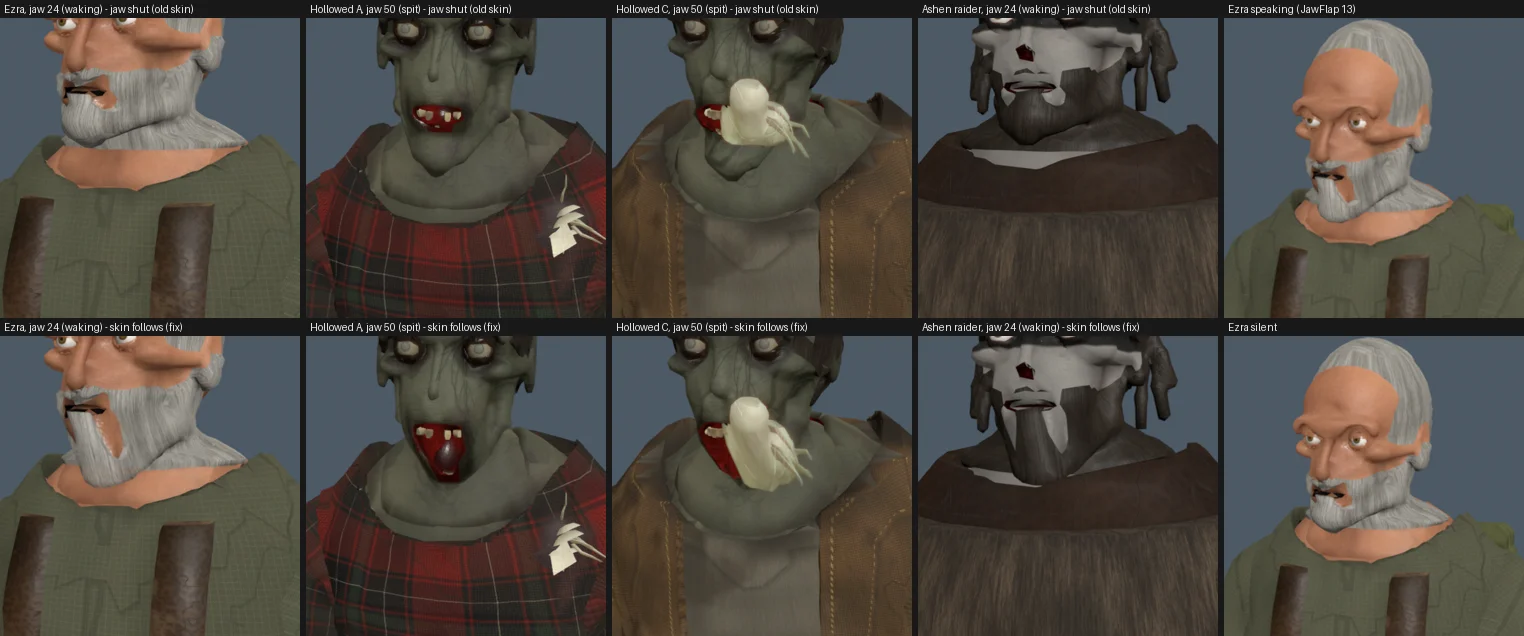
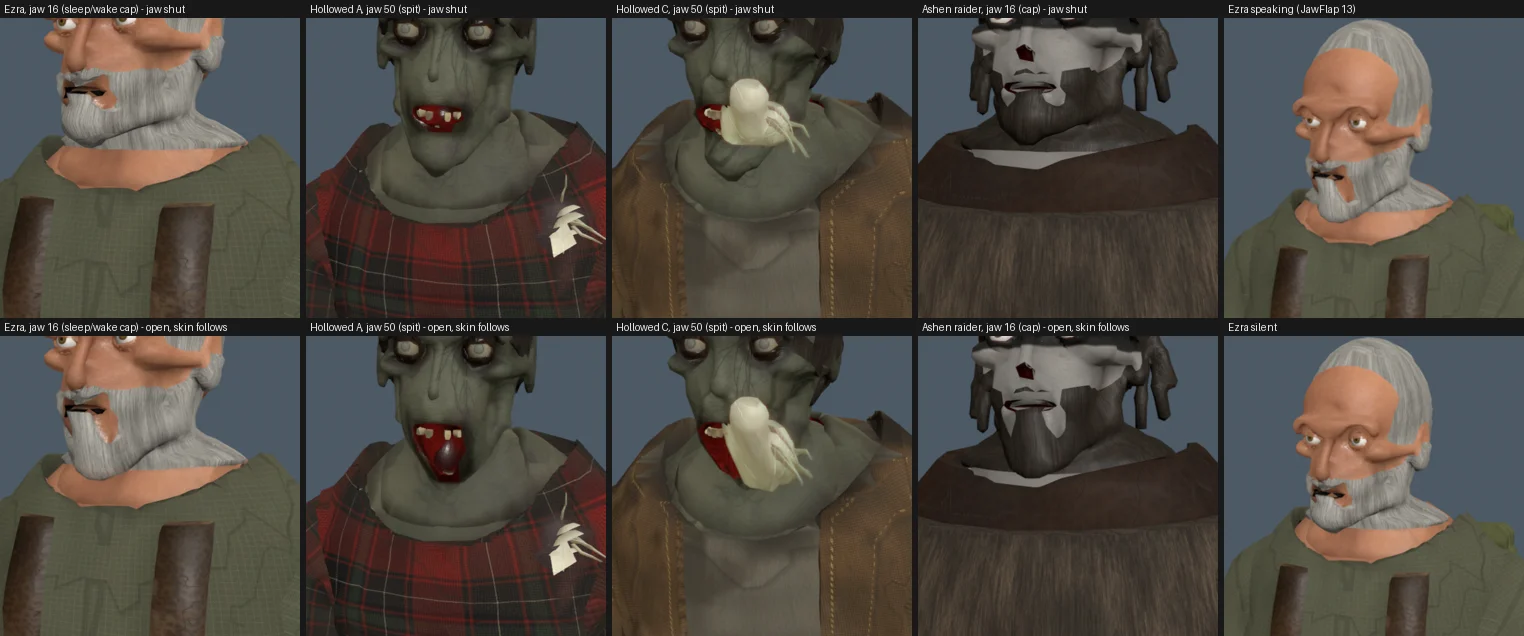
Jaw mask: a 5 cm blend on the cheeks; the face sheet at the capped 16 degrees
The wider cheek blend lets a beard stretch with the jaw instead of parting at the cheek. Re-rendered
at the sleep/wake cap (16), the Ashen raider's beard stays whole (the pale band at its cheek is its
face paint, there with the jaw shut too); Ezra's lowers with his chin. The sheet shows Ezra and the
raider at 16, two Hollowed at their 50 degree spit gape, and Ezra speaking.

Claude-Session: https://claude.ai/code/session_013NwRPQ1PsMRu5iFyZAajxk

diff --git a/tools/assetgen/blender/lib/char_body.py b/tools/assetgen/blender/lib/char_body.py
@@ -1012,12 +1012,12 @@ class BodyModel:
         x, y, z = q[:, 0], q[:, 1], q[:, 2]
         # below the mouth line (which tilts down towards the back), in front of the ear/TMJ
         mouth_y = -0.060 + 0.25 * (0.085 - z) * 0.35
-        # Sharp at the lips (the mouth parts there), soft out on the cheeks: with a 1 cm step all
-        # round, an open jaw dropped the chin and a beard as one block with a seam at the cheeks.
-        soft = smoothstep(0.012, 0.045, np.abs(x))
-        below = 1 - smoothstep(mouth_y - 0.006 - 0.022 * soft, mouth_y + 0.004 + 0.010 * soft, y)
-        front = smoothstep(-0.035, 0.015, z)
-        lateral = 1 - smoothstep(0.045, 0.085, np.abs(x))
+        # Sharp at the lips (the mouth parts there), soft out on the cheeks (~5 cm): with a 1 cm step
+        # all round, an open jaw dropped the chin and a beard as one block, parting at the cheeks.
+        soft = smoothstep(0.012, 0.040, np.abs(x))
+        below = 1 - smoothstep(mouth_y - 0.006 - 0.045 * soft, mouth_y + 0.004 + 0.012 * soft, y)
+        front = smoothstep(-0.045, 0.015, z)
+        lateral = 1 - smoothstep(0.035, 0.095, np.abs(x))
         # The neck below the jaw stays with the neck/head: 1 above the jaw's lower edge, 0 under it.
         # (Once 1 - smoothstep: 0 for every point above it, so no face skin ever followed the jaw,
         # only the teeth; a jaw that opened moved nothing you could see. TD-309.)
